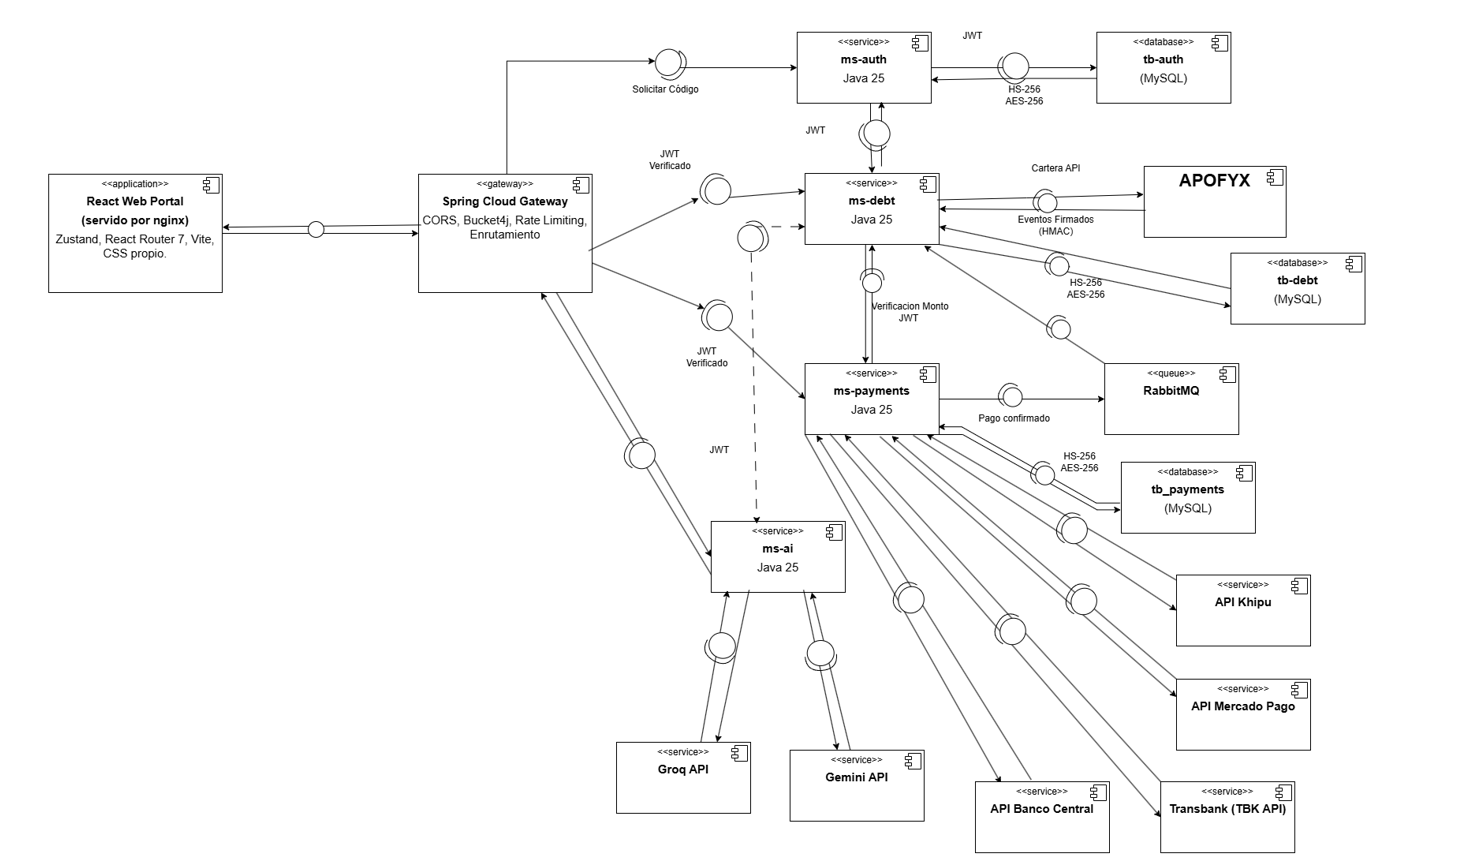
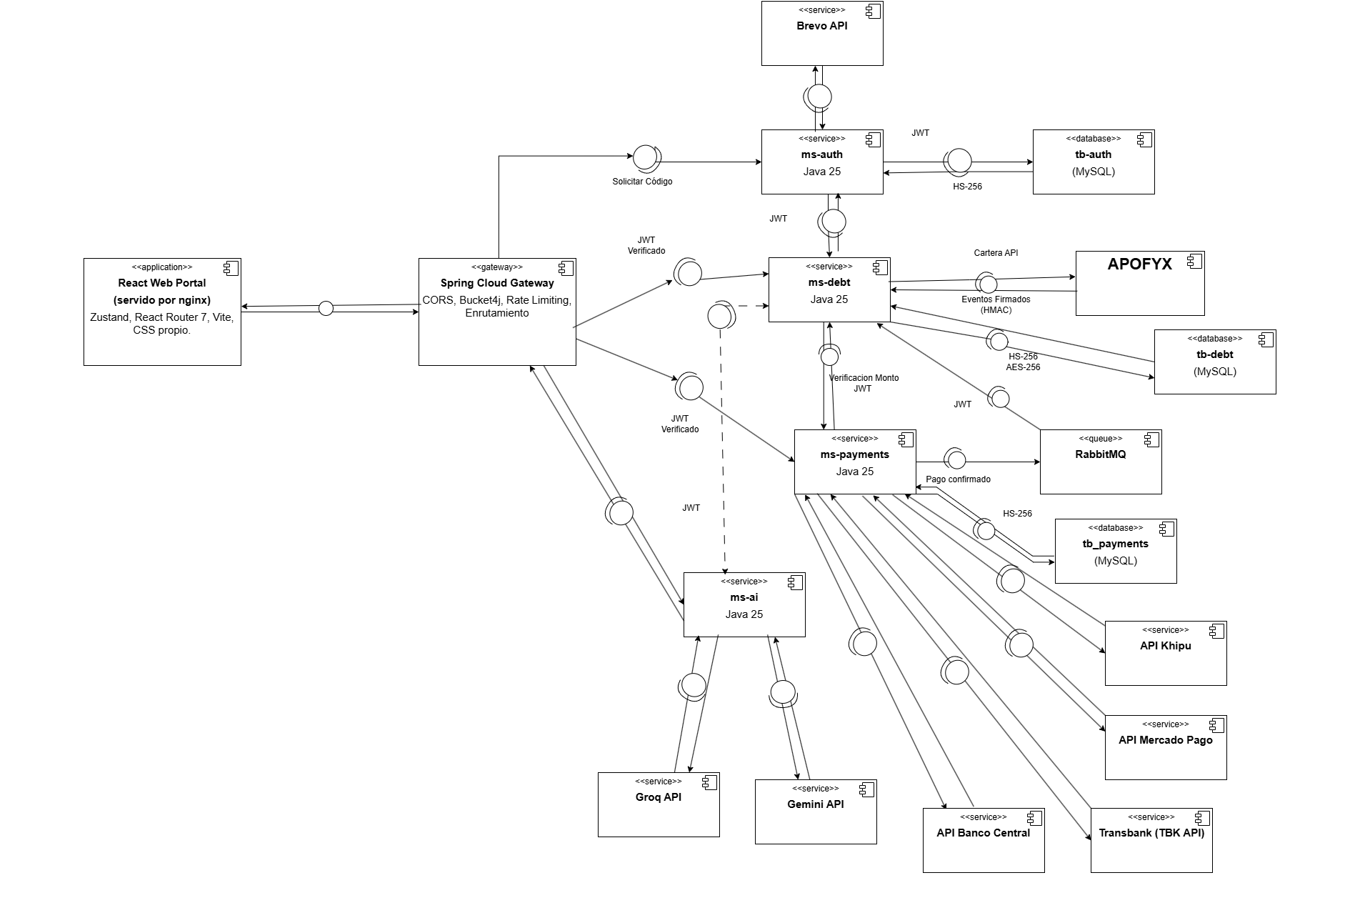
Correcciones de diagramas y roles
Se corrigieron los cambios solicitados segun las peticiones de cambios en arquitectura

diff --git a/README.md b/README.md
@@ -1,4 +1,5 @@
-# <picture><source media="(prefers-color-scheme: dark)" srcset="frontend/public/marca/simbolo-oscuro.svg"><img src="frontend/public/marca/simbolo-claro.svg" alt="DataBridge" width="40" height="40" align="top"></picture> DataBridge
+<a id="1-nombre-del-proyecto"></a>
+# 1 <picture><source media="(prefers-color-scheme: dark)" srcset="frontend/public/marca/simbolo-oscuro.svg"><img src="frontend/public/marca/simbolo-claro.svg" alt="DataBridge" width="40" height="40" align="top"></picture> DataBridge
 
 [![gateway](https://github.com/TechnicalBridge/DataBridge/actions/workflows/gateway.yml/badge.svg?branch=main)](https://github.com/TechnicalBridge/DataBridge/actions/workflows/gateway.yml) [![ms-auth](https://github.com/TechnicalBridge/DataBridge/actions/workflows/ms-auth.yml/badge.svg?branch=main)](https://github.com/TechnicalBridge/DataBridge/actions/workflows/ms-auth.yml) [![ms-debt](https://github.com/TechnicalBridge/DataBridge/actions/workflows/ms-debt.yml/badge.svg?branch=main)](https://github.com/TechnicalBridge/DataBridge/actions/workflows/ms-debt.yml) [![ms-payments](https://github.com/TechnicalBridge/DataBridge/actions/workflows/ms-payments.yml/badge.svg?branch=main)](https://github.com/TechnicalBridge/DataBridge/actions/workflows/ms-payments.yml) [![frontend](https://github.com/TechnicalBridge/DataBridge/actions/workflows/frontend.yml/badge.svg?branch=main)](https://github.com/TechnicalBridge/DataBridge/actions/workflows/frontend.yml) [![ms-ai](https://github.com/TechnicalBridge/DataBridge/actions/workflows/ms-ai.yml/badge.svg?branch=main)](https://github.com/TechnicalBridge/DataBridge/actions/workflows/ms-ai.yml) [![codeql](https://github.com/TechnicalBridge/DataBridge/actions/workflows/codeql.yml/badge.svg?branch=main)](https://github.com/TechnicalBridge/DataBridge/actions/workflows/codeql.yml)
 
@@ -41,7 +42,7 @@
 
 ---
 
-## Descripción
+## 2 Descripción
 
 ### Qué hace
 
@@ -76,7 +77,7 @@ Para las **empresas que gestionan la cartera** (agencias de cobranza como APOFYX
 
 ---
 
-## Tecnologías utilizadas
+## 3 Tecnologías utilizadas
 
 ### Lenguajes
 
@@ -122,7 +123,7 @@ Para las **empresas que gestionan la cartera** (agencias de cobranza como APOFYX
 
 ---
 
-## Instrucciones para ejecutar el proyecto localmente
+## 4 Instrucciones para ejecutar el proyecto localmente
 
 ### Requisitos previos
 
@@ -182,28 +183,28 @@ Para ver el recorrido guiado completo de demostración, consultar [docs/demo/rec
 
 ---
 
-## Integrantes del equipo con sus roles
+## 5 Integrantes del equipo con sus roles
 
 | Integrante | Rol | Responsabilidades clave |
 | :--- | :--- | :--- |
-| **Flavio Henríquez** | Product Owner | Priorización del backlog, redacción de historias de usuario con criterios de aceptación y aprobación de paso a *Ready*. |
+| **Pedro Campos** | Product Owner | Priorización del backlog, redacción de historias de usuario con criterios de aceptación y aprobación de paso a *Ready*. |
 | **Martín Gutiérrez** | Scrum Master | Facilitación del flujo continuo, gestión de impedimentos, control del WIP y facilitación de ceremonias de retrospectiva. |
 | **Esteban Maino** | Desarrollador fullstack y Project Coordinator | Coordinación del proyecto y desarrollo en Spring Boot y React. |
-| **Pedro Campos** | Desarrollador fullstack y QA Tester | Desarrollo integral en backend y frontend, diseño y ejecución de pruebas automatizadas y aseguramiento de calidad. |
+| **Flavio Henríquez** | Desarrollador fullstack y QA Tester | Desarrollo integral en backend y frontend, diseño y ejecución de pruebas automatizadas y aseguramiento de calidad. |
 
 ---
 
-## Metodología de trabajo del equipo
+## 6 Metodología de trabajo del equipo
 
 ### Marco de trabajo: Scrumban
 
 El equipo adopta **Scrumban**, combinando la estructura de gobierno y roles de **Scrum** con la entrega de valor continua y control de flujo de **Kanban**:
 
 - **Roles Scrum definidos**:
-  - **Product Owner (Flavio Henríquez)**: Prioriza el backlog, escribe los criterios de aceptación y decide qué pasa a *Ready*.
+  - **Product Owner (Pedro Campos)**: Prioriza el backlog, escribe los criterios de aceptación y decide qué pasa a *Ready*.
   - **Scrum Master (Martín Gutiérrez)**: Cuida que el trabajo fluya, que nadie exceda el límite de tarjetas en curso y abre las retrospectivas.
   - **Project Coordinator y Desarrollador Fullstack (Esteban Maino)**: Programa en backend y portal, y coordina el avance del proyecto.
-  - **QA Tester y Desarrollador Fullstack (Pedro Campos)**: Programa en backend y portal, e implementa y valida las pruebas automatizadas.
+  - **QA Tester y Desarrollador Fullstack (Flavio Henríquez)**: Programa en backend y portal, e implementa y valida las pruebas automatizadas.
 - **Flujo Kanban sin Sprints fijos**: Las tareas avanzan de forma continua a través del tablero Kanban de GitHub Projects a través de las columnas: *Backlog → Ready → In Progress → In Review → Done*.
 - **Control de WIP (Work In Progress)**: Límite estricto de máximo 2 tarjetas simultáneas en *In Progress* por persona para minimizar cambios de contexto y reducir los tiempos de ciclo (*lead time*).
 - **Trunk-Based Development y Ramas cortas**: Desarrollo sobre `main` a través de ramas cortas (`tipo/numero-descripcion`), integradas mediante Pull Requests atómicos con revisión de código cruzada y aprobación de CI.
@@ -243,7 +244,7 @@ foreach ($s in "gateway","ms-auth","ms-debt","ms-payments","ms-ai") { .\mvnw.cmd
 
 ---
 
-## Arquitectura de la solución
+## 7 Arquitectura de la solución
 
 ### Descripción de la arquitectura
 
